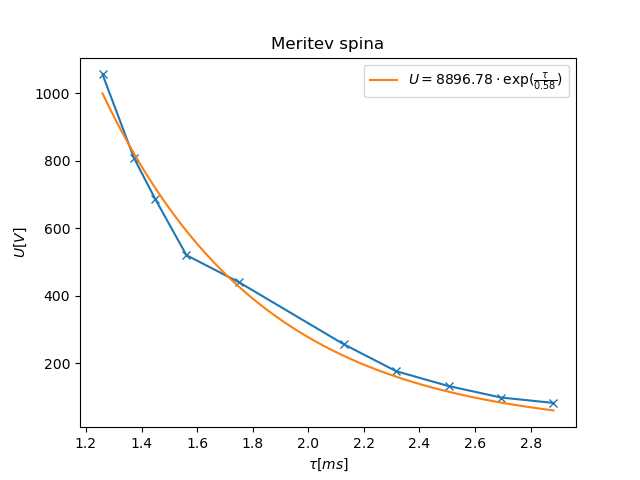
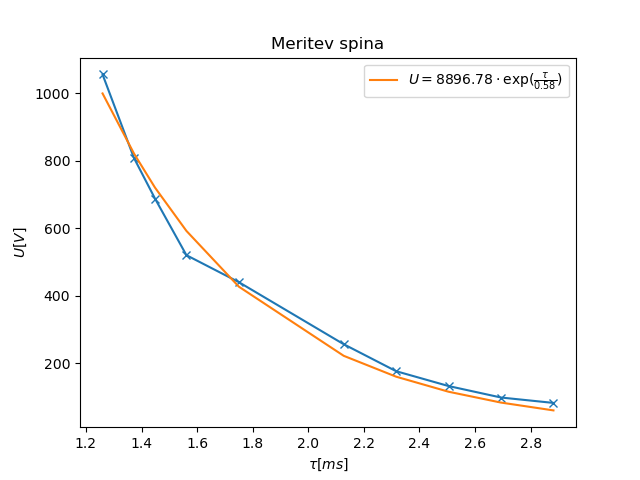
Update

diff --git a/3 LETNIK/Fizikali praktikum 5/Sunkovita jedrska/T1.py b/3 LETNIK/Fizikali praktikum 5/Sunkovita jedrska/T1.py
@@ -45,44 +45,17 @@ plt.show()
 
 
 tau_rocna=tau1
-print(tau_rocna)
-tau_rocna=f(tau1,fit[0][0],fit[0][1])
-f12= lambda x, M0, T1,C: M0*(1-np.exp(-(x)/T1))+C
+tau_rocna=f(tau1,fit[0][0],fit[0][1])*0.001
+f12= lambda x, M0, T1 : M0*(1-np.exp(-x/T1))
 #f1= lambda x, M0, T1 : M0*np.exp(-2*x/T1)
-args = [7,25,36]
+args = [1,1]
 fit12 = sp.curve_fit(f12, tau_rocna, U1, p0=args)
-fitlabel = r"$U=%.2f(1-exp(\frac{\tau}{%.2f})$+%.2f"%(fit12[0][0], fit12[0][1],fit12[0][2])
+fitlabel = r"$U=%.2f(1-exp(\frac{\tau}{%.2f}) $"%(fit12[0][0], fit12[0][1])
 plt.title("Meritev vodovodne vode")
 plt.plot(tau_rocna,U1,"x-")
 #plt.plot(tau1,U1,"x-")
 #plt.plot(tau_rocna, f1(tau_rocna, 8.1, 3540), label=fitlabel)
-TAU=np.linspace(tau_rocna[0],tau_rocna[len(tau_rocna)-1],1000)
-plt.plot(TAU, f12(TAU, fit12[0][0], fit12[0][1],fit12[0][2]), label=fitlabel)
-plt.plot(TAU, f12(TAU, fit12[0][0], 23,fit12[0][2]), label=fitlabel)
-plt.legend()
-plt.xlabel(r"$\tau[ms]$")
-plt.ylabel(r"$U[V]$")
-plt.show()
-
-
-
-data_file = THIS_FOLDER + "\Spin.txt"
-data2= np.loadtxt(data_file)
-print(data2)
-tau1, U1=data2.T
-tau_rocna=tau1
-tau_rocna=f(tau1,fit[0][0],fit[0][1])
-f12= lambda x, M0, T1 : M0*np.exp(-x/T1)
-#f1= lambda x, M0, T1 : M0*np.exp(-2*x/T1)
-args = [1200,1.2]
-fit12 = sp.curve_fit(f12, tau_rocna, U1, p0=args)
-fitlabel = r"$U=%.2f\cdot \exp(\frac{\tau}{%.2f})$"%(fit12[0][0], fit12[0][1])
-plt.title("Meritev spina")
-plt.plot(tau_rocna,U1,"x-")
-#plt.plot(tau1,U1,"x-")
-#plt.plot(tau_rocna, f1(tau_rocna, 8.1, 3540), label=fitlabel)
-TAU=np.linspace(tau_rocna[0],tau_rocna[len(tau1)-1],1000)
-plt.plot(TAU, f12(TAU, fit12[0][0], fit12[0][1]), label=fitlabel)
+plt.plot(tau_rocna, f12(tau_rocna, fit12[0][0], fit12[0][1]), label=fitlabel)
 plt.legend()
 plt.xlabel(r"$\tau[ms]$")
 plt.ylabel(r"$U[V]$")
